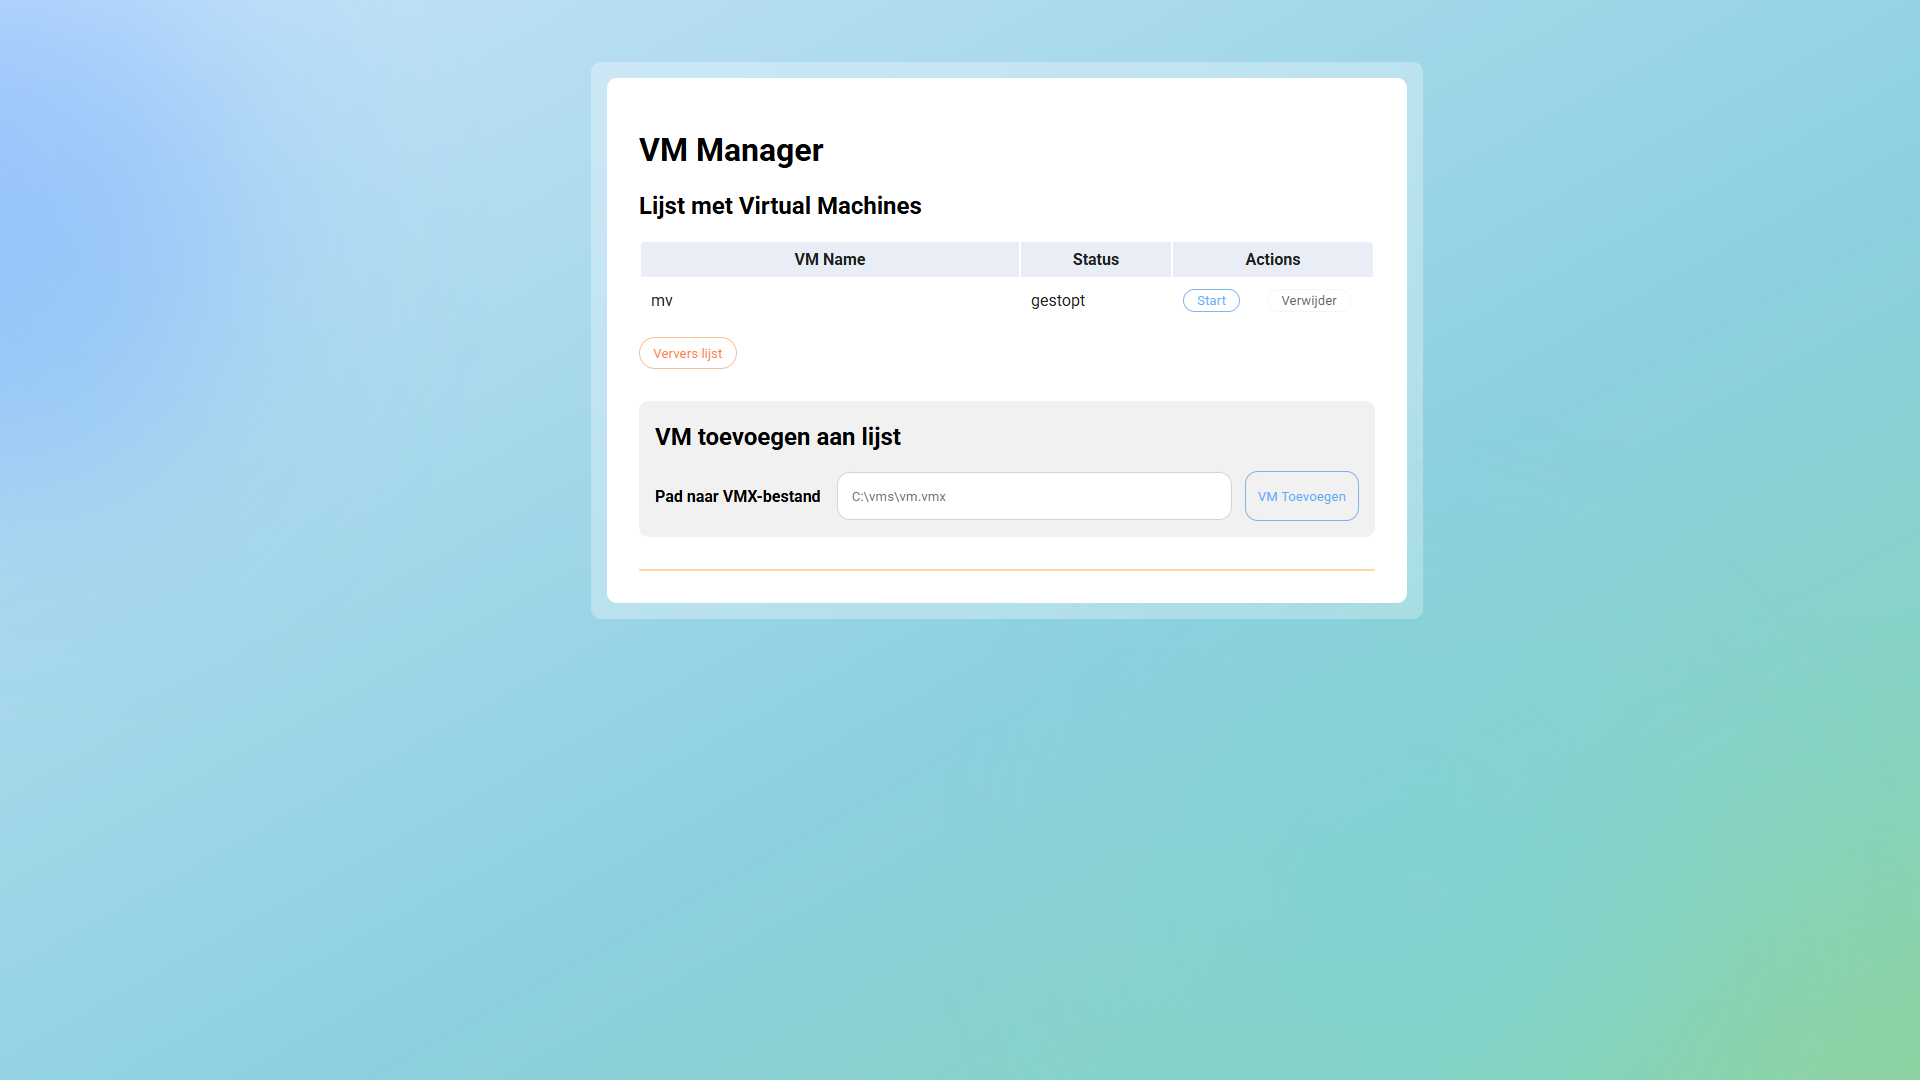
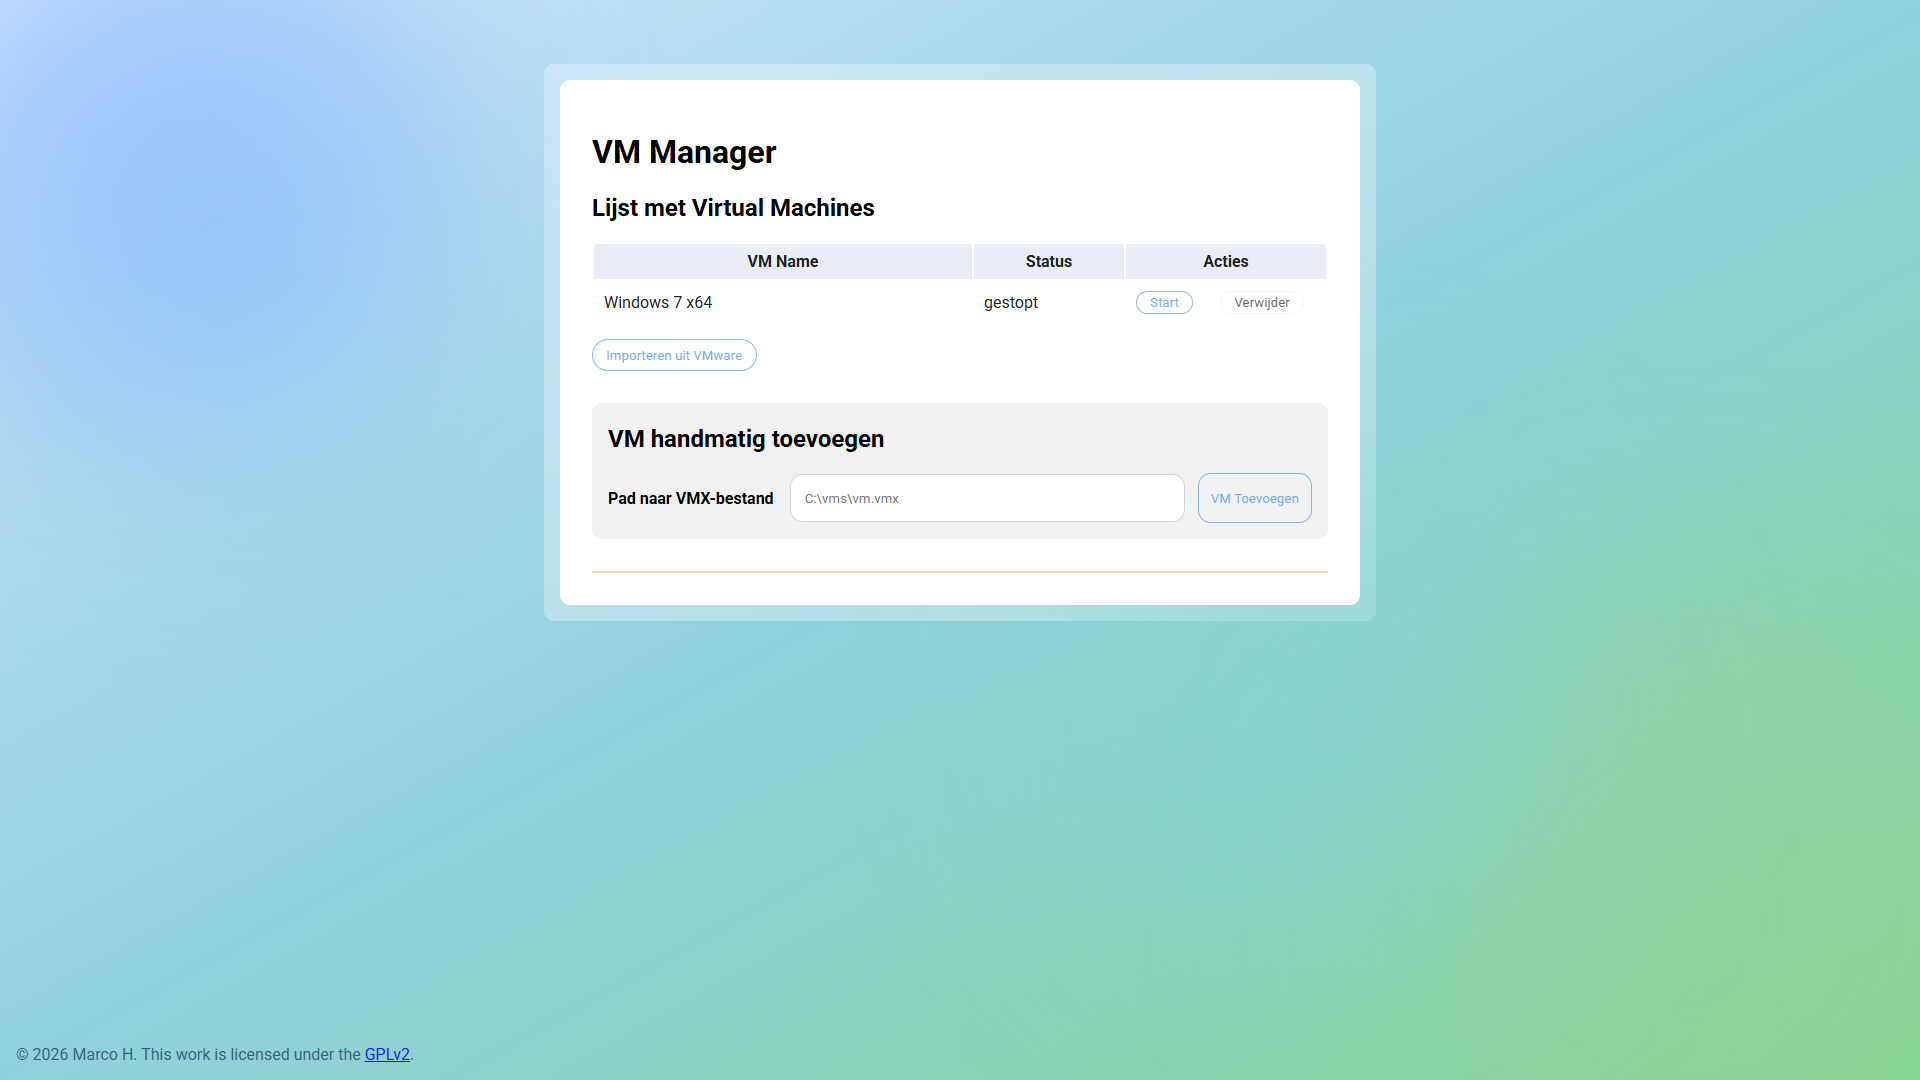
Docs: Update usage and preview in README.md

diff --git a/README.md b/README.md
@@ -2,20 +2,24 @@
 A **Python** application serving a basic web-based page allowing to control the power-state of virtual machines hosted through **VMware Workstation**
 
 ## :fire: Installation (Windows)
-1. Download the [Release or Beta](https://github.com/mhoek2/vmmanager/releases) here.
+1. Download the [Release](https://github.com/mhoek2/vmmanager/releases/download/latest/windows-package.zip) or [Latest Beta](https://github.com/mhoek2/vmmanager/releases/download/latest-beta/windows-package.zip) here.
 1. Extract the contents and open the folder.
-2. Open **config.json** and edit the path for **"vmrun"** entry to match your VMware Workstation install directory.
+2. Open **config.json** and edit the path for **"vmrun"** entry to match with path to your VMware Workstation **vmrun.exe**.
 
 ## :fire: Usage (Windows)
-1. Launching "VM Manager" will run the app in the background/system tray
-2. In the system tray, right click on the "VM Manager" 
-	a. Select **"Open UI"** from the context menu.
-	b. Or navigate to [http://localhost:5000](http://localhost:5000) in a web-browser
-4. The web-page shows a table listing virtual machines from **VMware Workstation**.
-	a. NOTE: You have to **manually** add the **.VMX path** for each virtual machine. 
-5. The web-page is updating the table periodicly (3 seconds)
-6. Each virtual machine has a **"Start"** button, if it is running it is replaced with **"Stop"**
-7. The "Remove" button only removes the virtual machine from the table, it will not destroy it.
+- Launch **VM Manager** — opens in your browser and appears in the system tray  
+- Open the UI:
+  - Right-click the tray icon → **Open UI**
+  - Or go to http://localhost:5000  
 
+- The web UI lists your **VMware Workstation** virtual machines  
+  - Click **Import VMware** to auto-detect them  
+  - Or manually add a `.vmx` path  
 
-<img width="1920" height="1080" alt="preview" src="https://github.com/user-attachments/assets/f78028c7-5091-4d79-9255-6384ff7319f2" />
+- The table refreshes every 3 seconds  
+
+- Per VM:
+  - **Start / Stop** depending on state  
+  - **Remove** only removes it from the list (not from disk)
+
+<img width="1920" height="1080" alt="preview" src="https://raw.githubusercontent.com/mhoek2/vmmanager/refs/heads/main/preview.png" />
